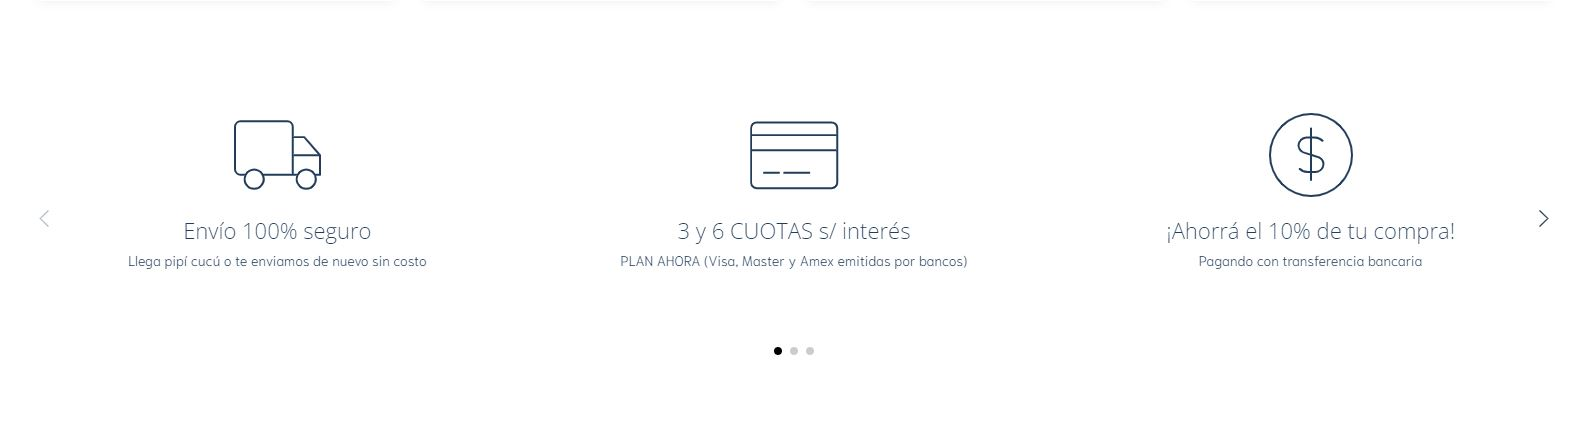
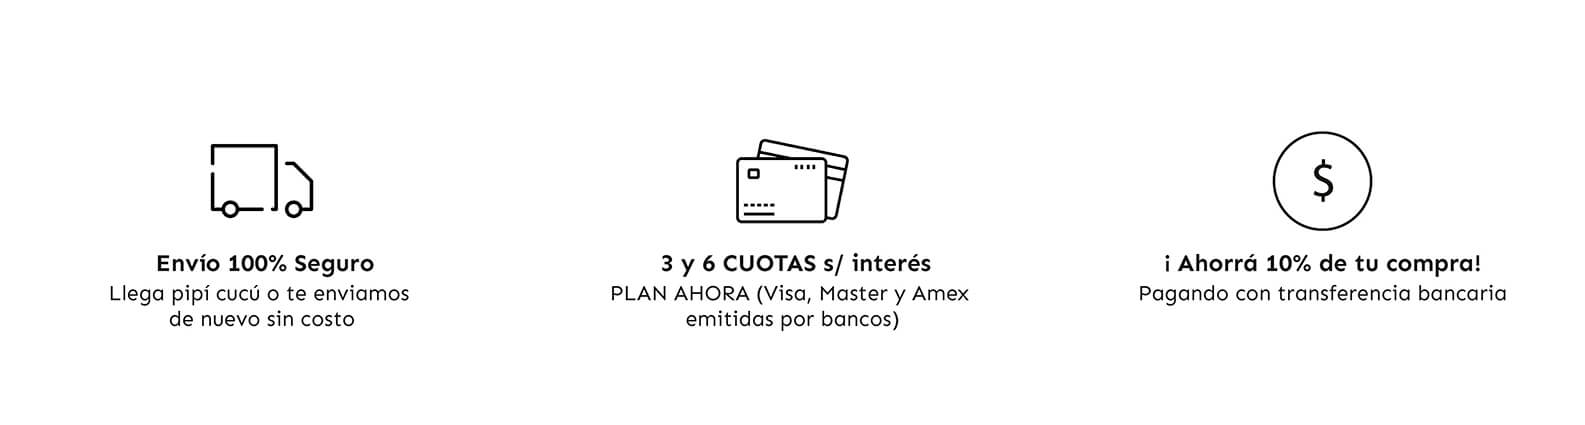
new img in info page

diff --git a/css/styles.css b/css/styles.css
@@ -258,6 +258,8 @@
   font-size: 0.8rem;
   padding-left: 5%;
   padding-right: 5%; }
+  .info-fiji div .info-imagen {
+    display: none; }
   .info-fiji div h2 {
     align-items: center;
     justify-content: center;
@@ -436,6 +438,8 @@
     padding-left: 2%;
     padding-right: 2%;
     padding-bottom: 3%; }
+    .info-fiji div .info-imagen {
+      display: block; }
     .info-fiji div h2 {
       margin-top: 4%;
       padding-bottom: 2%;

diff --git a/scss/components/_mediaquieres.scss b/scss/components/_mediaquieres.scss
@@ -180,6 +180,9 @@
                     padding-left: 2%;
                     padding-right: 2%;
                     padding-bottom: 3%;
+                    .info-imagen {
+                        display: block;
+                    }
                     h2 {
                         margin-top: 4%;
                         padding-bottom: 2%;

diff --git a/paginas/info-ayuda.html b/paginas/info-ayuda.html
@@ -122,7 +122,7 @@
                         </P>
                     </div>
                     <div>
-                        <img src="../imagenes/info-envio.jpg" class="img-fluid" alt="...">
+                        <img src="../imagenes/info-envio.jpg" class="info-imagen img-fluid" alt="...">
                     </div>
 
 

diff --git a/scss/components/_main.scss b/scss/components/_main.scss
@@ -195,6 +195,9 @@
     font-size: 0.8rem;
     padding-left: 5%;
     padding-right: 5%;
+    .info-imagen {
+        display: none;
+    }
     h2 {
         align-items: center;
         justify-content: center;
